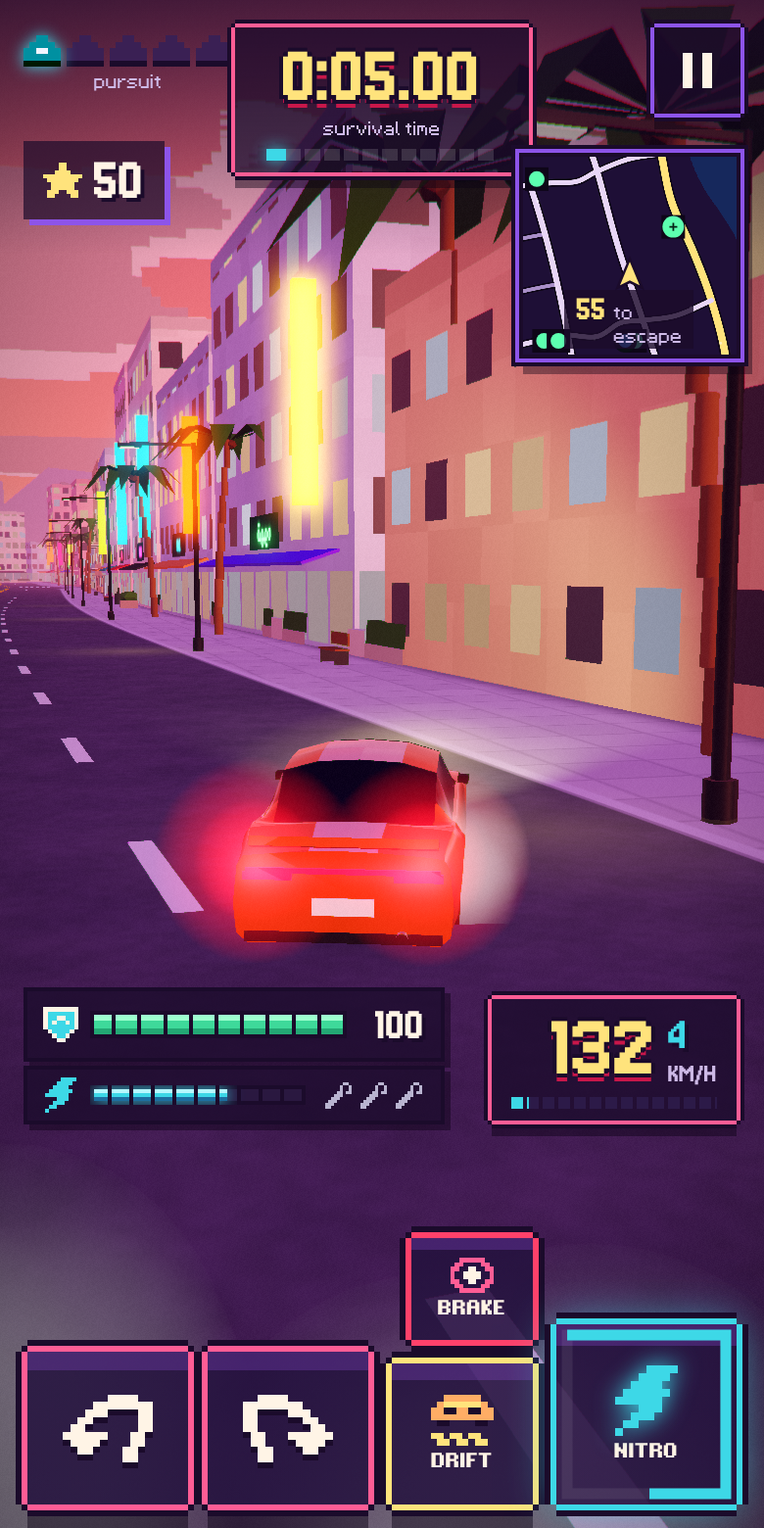
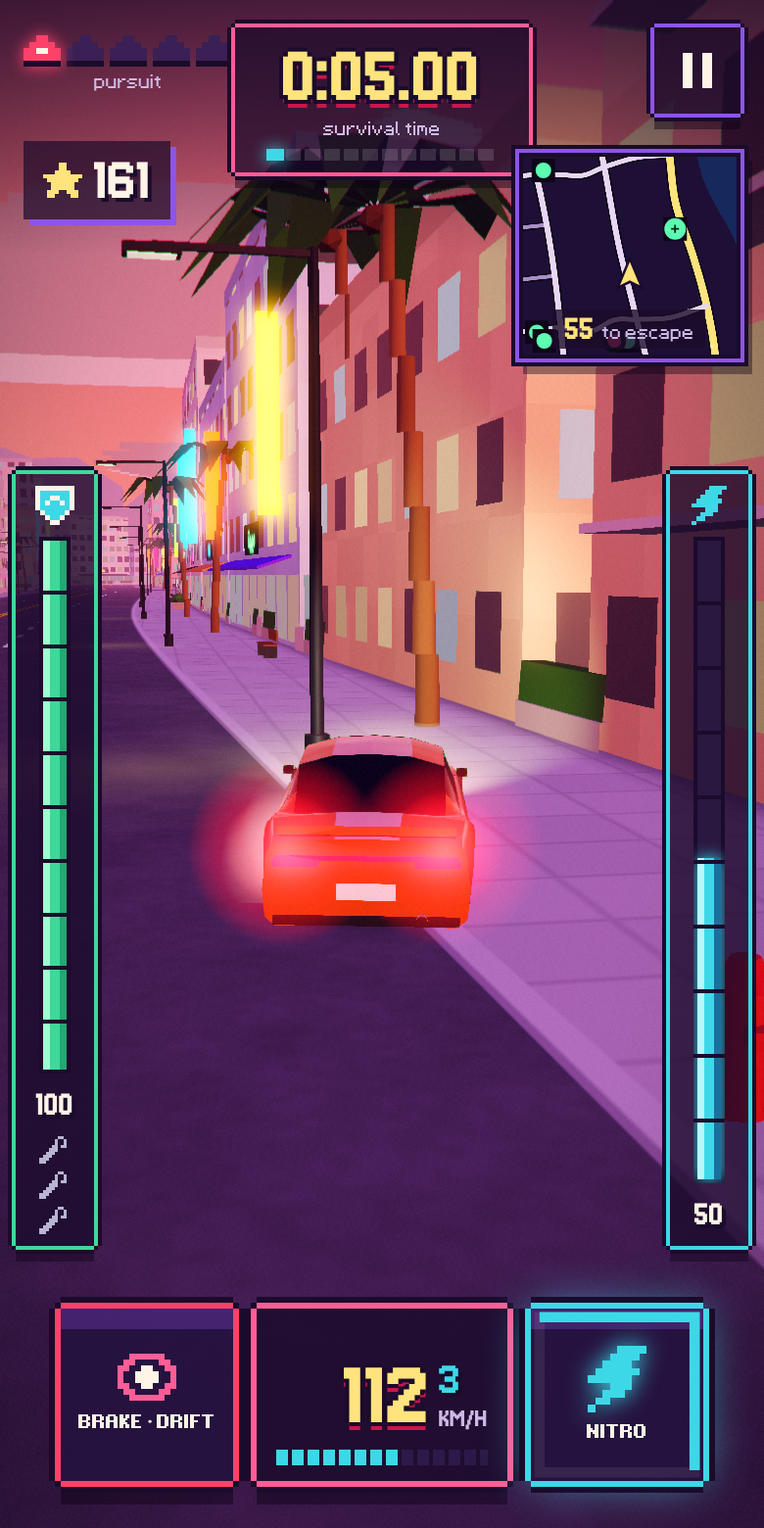
Escape 60 v3.2: comfortable mobile controls and pixel-perfect HUD layout
- Touch steering by holding the left or right half of the screen (edge
  glow shows the held side); steering buttons removed
- Vertical health bar (left edge, with the three repair icons) and nitro
  bar (right edge), pixel-segmented and framed
- One centred bottom cluster on a 4 px grid: BRAKE · DRIFT (handbrake
  while steering, brake when straight), speedometer with gear and rev
  segments, NITRO as a tap toggle with a tank ring
- Tighter landscape layout; pit-stop pointer and banners moved to the
  top centre; docs and screenshots refreshed

Claude-Session: https://claude.ai/code/session_014mZ3dDXUaSxeVfb5Ukv7uT

diff --git a/web/style.css b/web/style.css
@@ -552,3 +552,104 @@ dialog.dlg[open] { display: flex; flex-direction: column; gap: 10px; }
 }
 [dir="rtl"] #garage-back svg { transform: scaleX(-1); }
 .results:not(.legend) .title-ribbon .ti { display: none; }
+
+/* ======================================================================
+   v3.2 mobile layout: half-screen steering, vertical bars on both edges,
+   one centred bottom cluster (brake/drift · speed · nitro). Sizes on a 4 px grid.
+   ====================================================================== */
+#controls.controls { position: absolute; inset: 0; left: 0; right: 0; bottom: 0; z-index: 2; display: block; padding: 0; pointer-events: none; }
+.hud { z-index: 3; }
+.steer-zone { position: absolute; inset: 0; pointer-events: auto; touch-action: none; -webkit-user-select: none; user-select: none; }
+.zone-hint { position: absolute; bottom: calc(var(--safe-b) + 32px); width: 28px; height: 24px; opacity: 0.28; transition: opacity 0.08s steps(2), transform 0.08s steps(2); filter: drop-shadow(0 2px 0 var(--ink)); }
+.zone-hint.left { left: 6px; } .zone-hint.right { right: 6px; }
+.zone-hint > span { width: 100%; height: 100%; }
+.zone-hint.on { opacity: 1; transform: scale(1.15); filter: drop-shadow(0 0 6px var(--gold)) drop-shadow(0 2px 0 var(--ink)); }
+
+/* vertical health (left) and nitro (right) */
+.vbar { --b: 2px; position: absolute; top: calc(var(--safe-t) + 228px); bottom: calc(var(--safe-b) + 132px); width: 40px; display: flex; flex-direction: column; align-items: center; gap: 6px; padding: 6px 0; background: rgba(27, 11, 43, 0.78);
+  box-shadow: 0 -2px 0 0 var(--edge), 0 2px 0 0 var(--edge), -2px 0 0 0 var(--edge), 2px 0 0 0 var(--edge), 0 -4px 0 0 var(--ink), 0 4px 0 0 var(--ink), -4px 0 0 0 var(--ink), 4px 0 0 0 var(--ink), -2px -2px 0 0 var(--ink), 2px -2px 0 0 var(--ink), -2px 2px 0 0 var(--ink), 2px 2px 0 0 var(--ink), 0 8px 0 0 rgba(10, 2, 20, 0.4); }
+.vbar-health { left: 8px; --edge: #3ed99a; }
+.vbar-nitro { right: 8px; --edge: var(--cyan); }
+.vb-ico { width: 20px; height: 20px; flex: none; }
+.vb-track { position: relative; flex: 1; width: 16px; min-height: 60px; background: #2a1840; box-shadow: inset 0 0 0 2px var(--ink); overflow: hidden; }
+.vb-track i { position: absolute; left: 2px; right: 2px; bottom: 2px; height: 0; max-height: calc(100% - 4px); width: auto; }
+.vb-track::after { content: ""; position: absolute; inset: 0; background: repeating-linear-gradient(0deg, transparent 0 calc(10% - 2px), var(--ink) calc(10% - 2px) 10%); pointer-events: none; }
+.vbar .hp-trail { background: var(--cream); }
+.vbar .hp-fill { background: linear-gradient(90deg, #9dffcf 0 30%, #3ed99a 30% 70%, #23a874 70%); }
+.vbar-health[data-level="warn"] { --edge: var(--gold); }
+.vbar-health[data-level="warn"] .hp-fill { background: linear-gradient(90deg, #fff3a8 0 30%, var(--gold) 30% 70%, #e0a92e 70%); }
+.vbar-health[data-level="crit"] { --edge: var(--hot); }
+.vbar-health[data-level="crit"] .hp-fill { background: linear-gradient(90deg, #ff9fb3 0 30%, var(--hot) 30% 70%, #b51e45 70%); animation: blink 0.4s steps(2) infinite; }
+.vbar-health.hit { animation: shake 0.3s steps(3); }
+.vbar .nitro-fill { inset: auto 2px 2px 2px; background: linear-gradient(90deg, #b6f7ff 0 30%, var(--cyan) 30% 70%, #1d6fa0 70%); box-shadow: 0 0 8px var(--cyan); }
+.vbar-nitro.full .nitro-fill { animation: blink 0.5s steps(2) infinite; }
+.vbar-nitro.on { --edge: #5dffb0; }
+.vbar-nitro.on .nitro-fill { background: linear-gradient(90deg, #d9ffe9 0 30%, #5dffb0 30% 70%, #1f9e6a 70%); box-shadow: 0 0 10px #5dffb0; }
+.vbar b { font: 400 20px/1 var(--px); color: var(--cream); text-shadow: 2px 2px 0 var(--ink); direction: ltr; }
+.vbar .repairs { display: flex; flex-direction: column; gap: 4px; margin: 0; }
+.vbar .repairs span { width: 16px; height: 14px; }
+
+/* bottom cluster */
+.cluster { position: absolute; left: 50%; bottom: calc(var(--safe-b) + 12px); transform: translateX(-50%); display: flex; align-items: stretch; gap: 12px; pointer-events: none; }
+.cluster .act { --b: 3px; pointer-events: auto; touch-action: none; position: relative; width: 88px; height: 88px; display: flex; flex-direction: column; align-items: center; justify-content: center; gap: 4px; background: linear-gradient(180deg, rgba(70, 36, 112, 0.92) 0 12%, rgba(36, 18, 62, 0.9) 12%); grid-column: auto; grid-row: auto; }
+.cluster .act small { font-size: 10px; font-weight: 800; white-space: nowrap; }
+.cluster .act.brake { --edge: var(--hot); }
+.cluster .act.brake [data-icon] { width: 30px; height: 24px; }
+.cluster .act.nitro { --edge: var(--cyan); }
+.cluster .act.nitro [data-icon] { width: 30px; height: 34px; filter: drop-shadow(0 0 6px var(--cyan)); }
+.cluster .act.down { --edge: var(--gold); color: var(--ink); background: linear-gradient(180deg, #fff6b8 0 12%, var(--gold) 12%); }
+.cluster .act.nitro.on { --edge: #5dffb0; background: linear-gradient(180deg, #2f8f6a 0 12%, #1b5e45 12%); animation: blink 0.35s steps(2) infinite; }
+.cluster .act.nitro .ring { position: absolute; inset: 0; width: 100%; height: 100%; pointer-events: none; }
+.cluster .act.nitro .ring rect { fill: none; stroke-width: 6; }
+.cluster .act.nitro .ring .track { stroke: rgba(255, 255, 255, 0.08); }
+.cluster .act.nitro .ring .fill { stroke: var(--cyan); stroke-dasharray: 360; stroke-dashoffset: 360; }
+.cluster .speedo { --b: 3px; --edge: var(--pink); width: 128px; height: 88px; display: grid; grid-template-columns: 1fr auto; grid-template-rows: 1fr auto; column-gap: 4px; align-items: end; padding: 6px 10px 8px; background: rgba(27, 11, 43, 0.82); }
+.cluster .speedo b { font: 400 52px/0.82 var(--px); min-width: 0; }
+.cluster .speed-meta { padding-bottom: 2px; }
+.cluster .rpm { grid-column: 1 / 3; margin-top: 6px; height: 8px; }
+.pit-arrow { top: calc(var(--safe-t) + 112px); right: auto; left: 50%; transform: translateX(-50%); }
+.banner { top: calc(var(--safe-t) + 148px); }
+.howto { top: calc(var(--safe-t) + 236px); width: calc(100% - 128px); max-width: 440px; }
+body.no-touch .cluster .act, body.no-touch #controls { display: none !important; }
+body.no-touch .vbar { bottom: calc(var(--safe-b) + 24px); }
+body.no-touch .cluster { bottom: calc(var(--safe-b) + 16px); }
+@media (orientation: landscape) and (min-width: 600px) {
+  .vbar { top: calc(var(--safe-t) + 196px); bottom: calc(var(--safe-b) + 20px); }
+  .minimap { top: auto; right: auto; bottom: calc(var(--safe-b) + 16px); left: 64px; width: 150px; height: 130px; }
+  body.no-touch .minimap { left: 64px; }
+  .pit-arrow { top: calc(var(--safe-t) + 112px); bottom: auto; left: 50%; }
+  body.no-touch .pit-arrow { left: 50%; }
+  .howto { top: calc(var(--safe-t) + 120px); }
+  .zone-hint { bottom: 50%; }
+}
+@media (max-height: 680px) and (orientation: portrait) {
+  .vbar { top: calc(var(--safe-t) + 212px); bottom: calc(var(--safe-b) + 116px); }
+  .cluster .act, .cluster .speedo { height: 80px; } .cluster .act { width: 80px; } .cluster .speedo { width: 120px; }
+  .cluster .speedo b { font-size: 46px; }
+}
+/* steering feedback: the held half glows along its screen edge */
+.zone-hint { top: 0; bottom: 0; width: 56px; height: auto; opacity: 0; transform: none; filter: none; }
+.zone-hint > span { display: none; }
+.zone-hint.left { left: 0; background: linear-gradient(90deg, rgba(255, 93, 149, 0.55), transparent); }
+.zone-hint.right { right: 0; background: linear-gradient(270deg, rgba(255, 93, 149, 0.55), transparent); }
+.zone-hint.on { opacity: 1; transform: none; filter: none; }
+@media (orientation: landscape) and (min-width: 600px) { .zone-hint { bottom: 0; } }
+@media (orientation: landscape) and (min-width: 600px) {
+  .vbar { top: calc(var(--safe-t) + 120px); bottom: calc(var(--safe-b) + 16px); }
+  .combo { left: 160px; top: calc(var(--safe-t) + 50px); }
+  .vb-track { min-height: 40px; }
+  .vbar .repairs { gap: 2px; }
+  .vbar .repairs span { width: 14px; height: 12px; }
+}
+@media (orientation: landscape) and (max-height: 520px) {
+  .cluster { gap: 8px; bottom: calc(var(--safe-b) + 10px); }
+  .cluster .act { width: 72px; height: 72px; }
+  .cluster .act small { font-size: 9px; }
+  .cluster .act [data-icon] { transform: scale(0.85); }
+  .cluster .speedo { width: 112px; height: 72px; padding: 4px 8px 6px; }
+  .cluster .speedo b { font-size: 42px; }
+  .minimap { width: 120px; height: 104px; bottom: calc(var(--safe-b) + 10px); }
+  .hud-timer b { font-size: 36px; }
+  .vbar { width: 36px; top: calc(var(--safe-t) + 112px); bottom: calc(var(--safe-b) + 10px); }
+}
+.mm-count, .mm-count small { white-space: nowrap; }

diff --git a/web/src/main.js b/web/src/main.js
@@ -12,7 +12,7 @@ import * as api from './api.js';
 import { createMinimap } from './ui/minimap.js';
 
 const $ = (id) => document.getElementById(id);
-const VERSION = 'v3.1';
+const VERSION = 'v3.2';
 hydrateIcons();
 applyI18n();
 const canvas = $('game'), render = createRenderer(canvas);
@@ -43,7 +43,7 @@ let seed = initialSeed, game = null, paused = false, runTicket = null, trace = [
 let lastEvent = -1, finishQueued = false, online = false, lastResult = null, view = 'loading', ready = false;
 let frozen = false;
 const persisted = (() => { try { return JSON.parse(localStorage.getItem('escape60-bests-' + SIM_VERSION) || '{}'); } catch { return {}; } })();
-const input = { left: false, right: false, tl: false, tr: false, brake: false, hand: false, nitro: false, kb: { brake: false, hand: false, nitro: false }, pad: { x: 0, brake: false, hand: false, nitro: false } };
+const input = { left: false, right: false, tl: false, tr: false, brake: false, nitroLatch: false, kb: { brake: false, hand: false, nitro: false }, pad: { x: 0, brake: false, hand: false, nitro: false } };
 if (qs.has('capture')) window.__escape60 = { render, freeze: (v) => { frozen = !!v; }, state: () => game && { ticks: game.ticks, state: game.state, hp: game.health, repairs: game.repairs, points: game.points, end: game.end, view }, info: () => render.info(), input,
   map: { sample, pointAt, edges, stations }, game: () => game, override: null,
   /** run n simulation ticks immediately (test tooling) */ fast(n) { countdown = 0; for (let i = 0; i < n && game?.state === 'playing'; i++) tick(); updateHud(0); } };
@@ -178,9 +178,9 @@ const click = () => audio.play('click', { gain: 0.5 });
 
 function renderHealth(hp, dt) {
   const v = Math.max(0, Math.min(100, hp));
-  $('hp-fill').style.width = v + '%';
+  $('hp-fill').style.height = v + '%';
   if (v > trailHp) trailHp = v; else if (trailHold > 0) trailHold -= dt; else trailHp = Math.max(v, trailHp - dt * 40);
-  $('hp-trail').style.width = trailHp + '%';
+  $('hp-trail').style.height = trailHp + '%';
   $('hp-num').textContent = Math.ceil(v);
   $('health').dataset.level = v > 60 ? 'ok' : v > 30 ? 'warn' : 'crit';
   $('hurt').classList.toggle('low', v < 30 && game?.state === 'playing');
@@ -200,9 +200,12 @@ function updateHud(dt) {
   $('speed').textContent = Math.round(kmh);
   $('gear').textContent = g.gear;
   const rpm = $('rpm-arc'); rpm.style.width = `${g.rpm * 100}%`; rpm.className = p.boost ? 'boost' : g.rpm > 0.85 ? 'red' : '';
-  $('nitro-fill').style.width = `${game.nitro * 100}%`;
-  document.querySelector('.bar.nitro').classList.toggle('full', game.nitro > 0.98);
-  $('nitro-ring').style.strokeDashoffset = String(352 * (1 - game.nitro));
+  $('nitro-fill').style.height = `${game.nitro * 100}%`;
+  $('nitro-num').textContent = Math.round(game.nitro * 100);
+  $('nitro-bar').classList.toggle('full', game.nitro > 0.98);
+  $('nitro-bar').classList.toggle('on', p.boost);
+  $('nitro').classList.toggle('on', input.nitroLatch);
+  $('nitro-ring').style.strokeDashoffset = String(360 * (1 - game.nitro));
   $('nitro').classList.toggle('ready', game.nitro > 0.25);
   if (game.health < shownHp - 0.5) { const h = $('health'); h.classList.remove('hit'); void h.offsetWidth; h.classList.add('hit'); trailHold = 0.4; }
   shownHp = game.health;
@@ -233,7 +236,7 @@ function begin() {
   audio.unlock();
   applyLook();
   game = createGame(seed, { car: profile.car });
-  trace = []; paused = false; finishQueued = false; lastEvent = -1; runTicket = null; countdown = 3; countStep = -1; acc = 0;
+  trace = []; paused = false; finishQueued = false; input.nitroLatch = false; input.brake = false; lastEvent = -1; runTicket = null; countdown = 3; countStep = -1; acc = 0;
   shownHp = 100; trailHp = 100; trailHold = 0; shownMult = 1; shownHeat = 0; lastSecond = -1; msTimer = 0;
   bestPassed = !persisted[seed]; targetPassed = !challenge || seed !== initialSeed;
   pops.textContent = ''; $('banner').classList.add('hidden'); $('milestone').classList.add('hidden');
@@ -256,9 +259,13 @@ function showCount(step) {
 }
 function currentInput() {
   if (window.__escape60?.override) return window.__escape60.override(game);
-  const steer = (input.left || input.tl ? -1 : 0) + (input.right || input.tr ? 1 : 0);
-  const s = Math.abs(input.pad.x) > 0.15 ? input.pad.x : steer;
-  return encodeInput(Math.round(s * 3), input.brake || input.kb.brake || input.pad.brake, input.hand || input.kb.hand || input.pad.hand, input.nitro || input.kb.nitro || input.pad.nitro);
+  const touchSteer = (input.tl ? -1 : 0) + (input.tr ? 1 : 0);
+  const steer = (input.left ? -1 : 0) + (input.right ? 1 : 0) + touchSteer;
+  const s = Math.abs(input.pad.x) > 0.15 ? input.pad.x : Math.max(-1, Math.min(1, steer));
+  // touch: the brake button drifts (handbrake) while you steer, and brakes when you go straight
+  const touchHand = input.brake && touchSteer !== 0, touchBrake = input.brake && touchSteer === 0;
+  if (input.nitroLatch && game && game.nitro <= 0.002) input.nitroLatch = false;
+  return encodeInput(Math.round(s * 3), touchBrake || input.kb.brake || input.pad.brake, touchHand || input.kb.hand || input.pad.hand, input.nitroLatch || input.kb.nitro || input.pad.nitro);
 }
 let wasBoost = false;
 function tick() {
@@ -499,12 +506,25 @@ button('copy-link', async () => {
 button('close-share', () => $('share-sheet').close());
 
 /* ---------- input ---------- */
-function hold(id, key) {
-  const el = $(id);
-  el.addEventListener('pointerdown', (e) => { e.preventDefault(); el.setPointerCapture(e.pointerId); skipCountdown(); input[key] = true; el.classList.add('down'); });
-  for (const ty of ['pointerup', 'pointercancel', 'lostpointercapture']) el.addEventListener(ty, () => { input[key] = false; el.classList.remove('down'); });
+/* touch: hold the left / right half of the screen to steer; brake (drift while steering); tap nitro to boost */
+const zone = $('steer-zone'), touches = new Map();
+function updateTouchSteer() {
+  let l = false, r = false;
+  for (const side of touches.values()) { if (side < 0) l = true; else r = true; }
+  input.tl = l; input.tr = r;
+  $('hint-left').classList.toggle('on', l); $('hint-right').classList.toggle('on', r);
 }
-hold('left', 'tl'); hold('right', 'tr'); hold('brake', 'brake'); hold('hand', 'hand'); hold('nitro', 'nitro');
+const sideOf = (e) => (e.clientX < window.innerWidth / 2 ? -1 : 1);
+zone.addEventListener('pointerdown', (e) => { e.preventDefault(); try { zone.setPointerCapture(e.pointerId); } catch {} touches.set(e.pointerId, sideOf(e)); skipCountdown(); updateTouchSteer(); });
+zone.addEventListener('pointermove', (e) => { if (!touches.has(e.pointerId)) return; touches.set(e.pointerId, sideOf(e)); updateTouchSteer(); });
+for (const ty of ['pointerup', 'pointercancel', 'lostpointercapture']) zone.addEventListener(ty, (e) => { touches.delete(e.pointerId); updateTouchSteer(); });
+{
+  const b = $('brake');
+  b.addEventListener('pointerdown', (e) => { e.preventDefault(); try { b.setPointerCapture(e.pointerId); } catch {} skipCountdown(); input.brake = true; b.classList.add('down'); });
+  for (const ty of ['pointerup', 'pointercancel', 'lostpointercapture']) b.addEventListener(ty, () => { input.brake = false; b.classList.remove('down'); });
+  const n = $('nitro');
+  n.addEventListener('pointerdown', (e) => { e.preventDefault(); skipCountdown(); if (game && (game.nitro > 0.05 || input.nitroLatch)) { input.nitroLatch = !input.nitroLatch; vibrate(12); } });
+}
 const KEYS = { ArrowLeft: 'left', KeyA: 'left', ArrowRight: 'right', KeyD: 'right' };
 window.addEventListener('keydown', (e) => {
   if (['ArrowLeft', 'ArrowRight', 'ArrowUp', 'ArrowDown', 'Space'].includes(e.code)) e.preventDefault();
@@ -522,7 +542,7 @@ window.addEventListener('keyup', (e) => {
   if (e.code === 'Space') input.kb.hand = false;
   if (e.code === 'ShiftLeft' || e.code === 'ShiftRight' || e.code === 'ArrowUp' || e.code === 'KeyW' || e.code === 'KeyN') input.kb.nitro = false;
 });
-window.addEventListener('blur', () => { for (const k of ['left', 'right', 'tl', 'tr', 'brake', 'hand', 'nitro']) input[k] = false; input.kb = { brake: false, hand: false, nitro: false }; });
+window.addEventListener('blur', () => { for (const k of ['left', 'right', 'tl', 'tr', 'brake', 'nitroLatch']) input[k] = false; touches.clear(); input.kb = { brake: false, hand: false, nitro: false }; });
 let padStart = false;
 function pollPad() {
   const pads = navigator.getGamepads ? navigator.getGamepads() : [];

diff --git a/web/src/i18n.js b/web/src/i18n.js
@@ -34,11 +34,11 @@ const S = {
     m_takedown3: "3 takedowns in one run", m_chain5: "Reach a ×5 chain", m_speed250: "Hit 250 km/h", m_repair: "Use a pit stop", m_score10k: "Score 10,000 in one run", m_runs3: "Play 3 runs", m_dodge: "Dodge a roadblock",
     settingsTitle: "SETTINGS", language: "Language", music: "Music", sfx: "Sound effects", shake: "Camera shake", motion: "Reduce motion", graphics: "Graphics", g_auto: "Auto", g_high: "High", g_low: "Low",
     tod: "Time of day", tod_sunset: "Sunset", tod_night: "Night", tod_day: "Day", credits: "Credits & licenses", close: "CLOSE",
-    howTo: "HOW TO PLAY", howKeys: "← → steer · ↓ brake · SPACE drift · SHIFT / ↑ nitro · P pause", howTouch: "◀ ▶ steer · DRIFT handbrake · NITRO boost · BRAKE",
+    howTo: "HOW TO PLAY", howKeys: "← → steer · ↓ brake · SPACE drift · SHIFT / ↑ nitro · P pause", howTouch: "Hold the LEFT or RIGHT half of the screen to steer · BRAKE while steering = drift · tap NITRO to boost",
     howGoal: "Lose the police for 60 seconds, then keep going. Drift, near-miss and take down cops to score. Damaged? Drive through a green PIT STOP (3 repairs).",
     shareTitle: "SHOW OFF YOUR RUN", story: "Story 9:16", post: "Post 4:5", wide: "Wide 16:9", shareImage: "SHARE IMAGE", copyLink: "COPY CHALLENGE LINK", copied: "Link copied ✓", save: "Save",
     friendBanner: "A friend challenged you: {score} pts in {time}. Same route — beat it!", friendWon: "🏆 You beat your friend's score!", friendLost: "{n} points short of your friend — one more run!",
-    left: "Steer left", right: "Steer right", brake: "BRAKE", handbrake: "DRIFT", nitro: "NITRO",
+    left: "Steer left", right: "Steer right", brake: "BRAKE", handbrake: "DRIFT", nitro: "NITRO", brakeDrift: "BRAKE · DRIFT",
     shareText: "I survived {time} in ESCAPE 60 and scored {score} points with the {car}. Beat that! #Escape60",
   },
   fa: {
@@ -74,11 +74,11 @@ const S = {
     m_takedown3: "۳ پلیس در یک دور", m_chain5: "زنجیره ×۵", m_speed250: "به ۲۵۰ کیلومتر برس", m_repair: "از پیتاستاپ استفاده کن", m_score10k: "۱۰٬۰۰۰ امتیاز در یک دور", m_runs3: "۳ دور بازی کن", m_dodge: "از یک راهبند جاخالی بده",
     settingsTitle: "تنظیمات", language: "زبان", music: "موسیقی", sfx: "افکت صوتی", shake: "لرزش دوربین", motion: "کاهش حرکت", graphics: "گرافیک", g_auto: "خودکار", g_high: "بالا", g_low: "سبک",
     tod: "زمان روز", tod_sunset: "غروب", tod_night: "شب", tod_day: "روز", credits: "سازندگان و مجوزها", close: "بستن",
-    howTo: "راهنما", howKeys: "← → فرمان · ↓ ترمز · SPACE دریفت · SHIFT / ↑ نیترو · P توقف", howTouch: "◀ ▶ فرمان · دریفت ترمزدستی · نیترو · ترمز",
+    howTo: "راهنما", howKeys: "← → فرمان · ↓ ترمز · SPACE دریفت · SHIFT / ↑ نیترو · P توقف", howTouch: "نیمهی چپ یا راست صفحه رو نگه دار تا بپیچی · ترمز موقع پیچیدن = دریفت · برای نیترو یک بار بزن",
     howGoal: "۶۰ ثانیه از پلیس فرار کن و بعد ادامه بده. با دریفت، رد شدن از بیخ گوش و زدن پلیس امتیاز بگیر. ماشین آسیب دید؟ از پیتاستاپ سبز رد شو (۳ تعمیر).",
     shareTitle: "رکوردت رو به رخ بکش", story: "استوری ۹:۱۶", post: "پست ۴:۵", wide: "افقی ۱۶:۹", shareImage: "اشتراک تصویر", copyLink: "کپی لینک چالش", copied: "لینک کپی شد ✓", save: "ذخیره",
     friendBanner: "دوستت به چالشت کشیده: {score} امتیاز در {time}. همین مسیر — بزنش!", friendWon: "🏆 امتیاز دوستت رو زدی!", friendLost: "{n} امتیاز تا رکورد دوستت — یک دور دیگه!",
-    left: "فرمان چپ", right: "فرمان راست", brake: "ترمز", handbrake: "دریفت", nitro: "نیترو",
+    left: "فرمان چپ", right: "فرمان راست", brake: "ترمز", handbrake: "دریفت", nitro: "نیترو", brakeDrift: "ترمز · دریفت",
     shareText: "در فرار ۶۰ با {car} {time} دوام آوردم و {score} امتیاز گرفتم. بزنش! #Escape60",
   },
 };

diff --git a/web/index.html b/web/index.html
@@ -136,16 +136,25 @@
       <div id="mult-box" class="combo off"><b id="mult">×1</b><div class="combo-bar"><i id="chain-fill"></i></div><small data-i18n="chain">CHAIN</small></div>
       <div class="minimap"><canvas id="minimap"></canvas><div class="mm-count"><b id="mm-count">60</b><small id="mm-label"></small></div></div>
       <div id="pit-arrow" class="pit-arrow hidden"><span class="arw" data-icon="wrench"></span><small id="pit-dist"></small></div>
-      <div class="hud-bottom">
-        <div class="bars">
-          <div class="hud-health bar" id="health"><span class="hp-ico" data-icon="shield"></span><div class="hp-bar"><i class="hp-trail" id="hp-trail"></i><i class="hp-fill" id="hp-fill"></i></div><b id="hp-num">100</b></div>
-          <div class="hud-nitro bar nitro"><span class="hp-ico" data-icon="bolt"></span><div class="hp-bar"><i class="nitro-fill" id="nitro-fill"></i></div><span class="repairs" id="repairs"></span></div>
-        </div>
+      <div class="vbar vbar-health" id="health" role="meter" aria-label="health">
+        <span class="vb-ico" data-icon="shield"></span>
+        <div class="vb-track"><i class="hp-trail" id="hp-trail"></i><i class="hp-fill" id="hp-fill"></i></div>
+        <b id="hp-num">100</b>
+        <span class="repairs" id="repairs"></span>
+      </div>
+      <div class="vbar vbar-nitro nitro" id="nitro-bar" role="meter" aria-label="nitro">
+        <span class="vb-ico" data-icon="bolt"></span>
+        <div class="vb-track"><i class="nitro-fill" id="nitro-fill"></i></div>
+        <b id="nitro-num">60</b>
+      </div>
+      <div class="cluster">
+        <button id="brake" class="act brake"><span data-icon="brake"></span><small data-i18n="brakeDrift">BRAKE · DRIFT</small></button>
         <div class="speedo">
           <b id="speed">0</b>
           <div class="speed-meta"><span class="gear" id="gear">1</span><small data-i18n="kmh">KM/H</small></div>
           <div class="rpm"><i id="rpm-arc"></i></div>
         </div>
+        <button id="nitro" class="act nitro"><svg viewBox="0 0 100 100" class="ring"><rect x="5" y="5" width="90" height="90" class="track"/><rect id="nitro-ring" x="5" y="5" width="90" height="90" class="fill"/></svg><span data-icon="bolt"></span><small data-i18n="nitro">NITRO</small></button>
       </div>
       <div id="bust" class="bust hidden"><b data-i18n="busting">BUSTING</b><i><u id="bust-fill"></u></i></div>
       <div id="popups" class="popups" aria-hidden="true"></div>
@@ -161,15 +170,10 @@
       <p id="howto" class="howto panel hidden"></p>
     </section>
     <span id="threat" class="threat" aria-hidden="true" hidden></span>
-    <nav id="controls" class="controls hidden">
-      <div class="steer-pad">
-        <button id="left" class="steer" data-i18n-label="left"><span data-icon="arrowL"></span></button>
-        <button id="right" class="steer" data-i18n-label="right"><span data-icon="arrowL" data-mirror></span></button>
-      </div>
-      <div class="act-pad">
-        <button id="brake" class="act brake"><span data-icon="brake"></span><small data-i18n="brake">BRAKE</small></button>
-        <button id="hand" class="act hand"><span data-icon="drift"></span><small data-i18n="handbrake">DRIFT</small></button>
-        <button id="nitro" class="act nitro"><svg viewBox="0 0 100 100" class="ring"><rect x="6" y="6" width="88" height="88" class="track"/><rect id="nitro-ring" x="6" y="6" width="88" height="88" class="fill"/></svg><span data-icon="bolt"></span><small data-i18n="nitro">NITRO</small></button>
+    <nav id="controls" class="controls hidden" aria-label="steering">
+      <div id="steer-zone" class="steer-zone">
+        <span class="zone-hint left" id="hint-left"><span data-icon="arrowL"></span></span>
+        <span class="zone-hint right" id="hint-right"><span data-icon="arrowL" data-mirror></span></span>
       </div>
     </nav>
 

diff --git a/docs/13_DECISIONS.md b/docs/13_DECISIONS.md
@@ -61,3 +61,4 @@ Status: accepted. The model writes the daily event text, radio lines and coach t
 | D30 | Look | IMPLEMENTED (supersedes D06/D08/D20 visuals) | Clean stylised PBR (no global ink outlines / halftone / voxels), procedural facades, glossy clear-coat cars, three times of day, filmic grade; comic effects only as selectable layers | Owner: graphics looked dirty / jarring, people's black outlines artificial |
 | D31 | Fonts | REVERTED by D32 | (Barlow Condensed was used in 3.0) | — |
 | D32 | Identity merge (3.1) | IMPLEMENTED | Original Sunset Bay identity restored on top of all v3 features: pixel logo, Rooyin Free + Jersey 10 (D14 again), pixel icons and pixel-frame UI, original wording, magenta/purple synthwave palette with the striped retro sun and pixel clouds, sunset-orange hero with stripes. The 3D world stays clean (no ink outlines, no voxel noise) | Owner: "the soul and identity of the previous game was lost — merge the two, the previous font was better" |
+| D33 | Mobile controls (3.2) | IMPLEMENTED | Half-screen tap-and-hold steering, vertical health/nitro bars on the edges, centred brake·drift / speed / nitro cluster, nitro as a tap toggle | Owner: the button layout was uncomfortable on phones; wants pixel-perfect, tidy, comfortable UI |

diff --git a/docs/CHANGELOG.md b/docs/CHANGELOG.md
@@ -1,5 +1,10 @@
 # Changelog
 
+## 3.2 — mobile controls and HUD layout — 2026-11-19
+- Touch steering: hold the left / right half of the screen (edge glow shows the held side); the steering buttons are gone.
+- Vertical health (left edge, with the three repair icons) and nitro (right edge) bars.
+- One centred bottom cluster on a 4 px grid: BRAKE · DRIFT (handbrake while steering, brake when straight), speedometer with gear and rev segments, NITRO (tap to toggle, ring shows the tank). Tighter landscape layout.
+
 ## 3.1 — identity merge — 2026-11-19
 - Restored the original Sunset Bay soul on top of every 3.0 feature: pixel logo, Rooyin Free + Jersey 10 fonts, pixel icon set (plus new pixel icons for nitro, brake, wrench, globe, sun…), pixel-frame panels, buttons and cards, the yellow START ESCAPE button, the gold pixel timer, sirens, combo box, segmented health bar and square minimap.
 - Magenta/purple synthwave palette with the striped retro sun and pixel clouds; purple-shadow / pink-highlight grade; sunset-orange hero with racing stripe; original paint names.

diff --git a/README.md b/README.md
@@ -18,7 +18,7 @@ npm run test:browser   # mobile smoke test incl. a real verified run (needs npm 
 npm run capture        # real screenshots into docs/screenshots (needs npm start)
 ```
 
-**Controls** — touch: ◀ ▶ steer · DRIFT (handbrake) · NITRO · BRAKE. Keyboard: ← → / A D steer · ↓ / S brake · Space handbrake · Shift / ↑ / W nitro · P pause · Enter retry. Gamepad: stick steer · A handbrake · RT / X nitro · LT / B brake · Start pause.
+**Controls** — touch: hold the left or right half of the screen to steer · BRAKE (drifts with the handbrake while you steer) · tap NITRO to boost (tap again to stop). Keyboard: ← → / A D steer · ↓ / S brake · Space handbrake · Shift / ↑ / W nitro · P pause · Enter retry. Gamepad: stick steer · A handbrake · RT / X nitro · LT / B brake · Start pause.
 
 ## What's in the game
 
